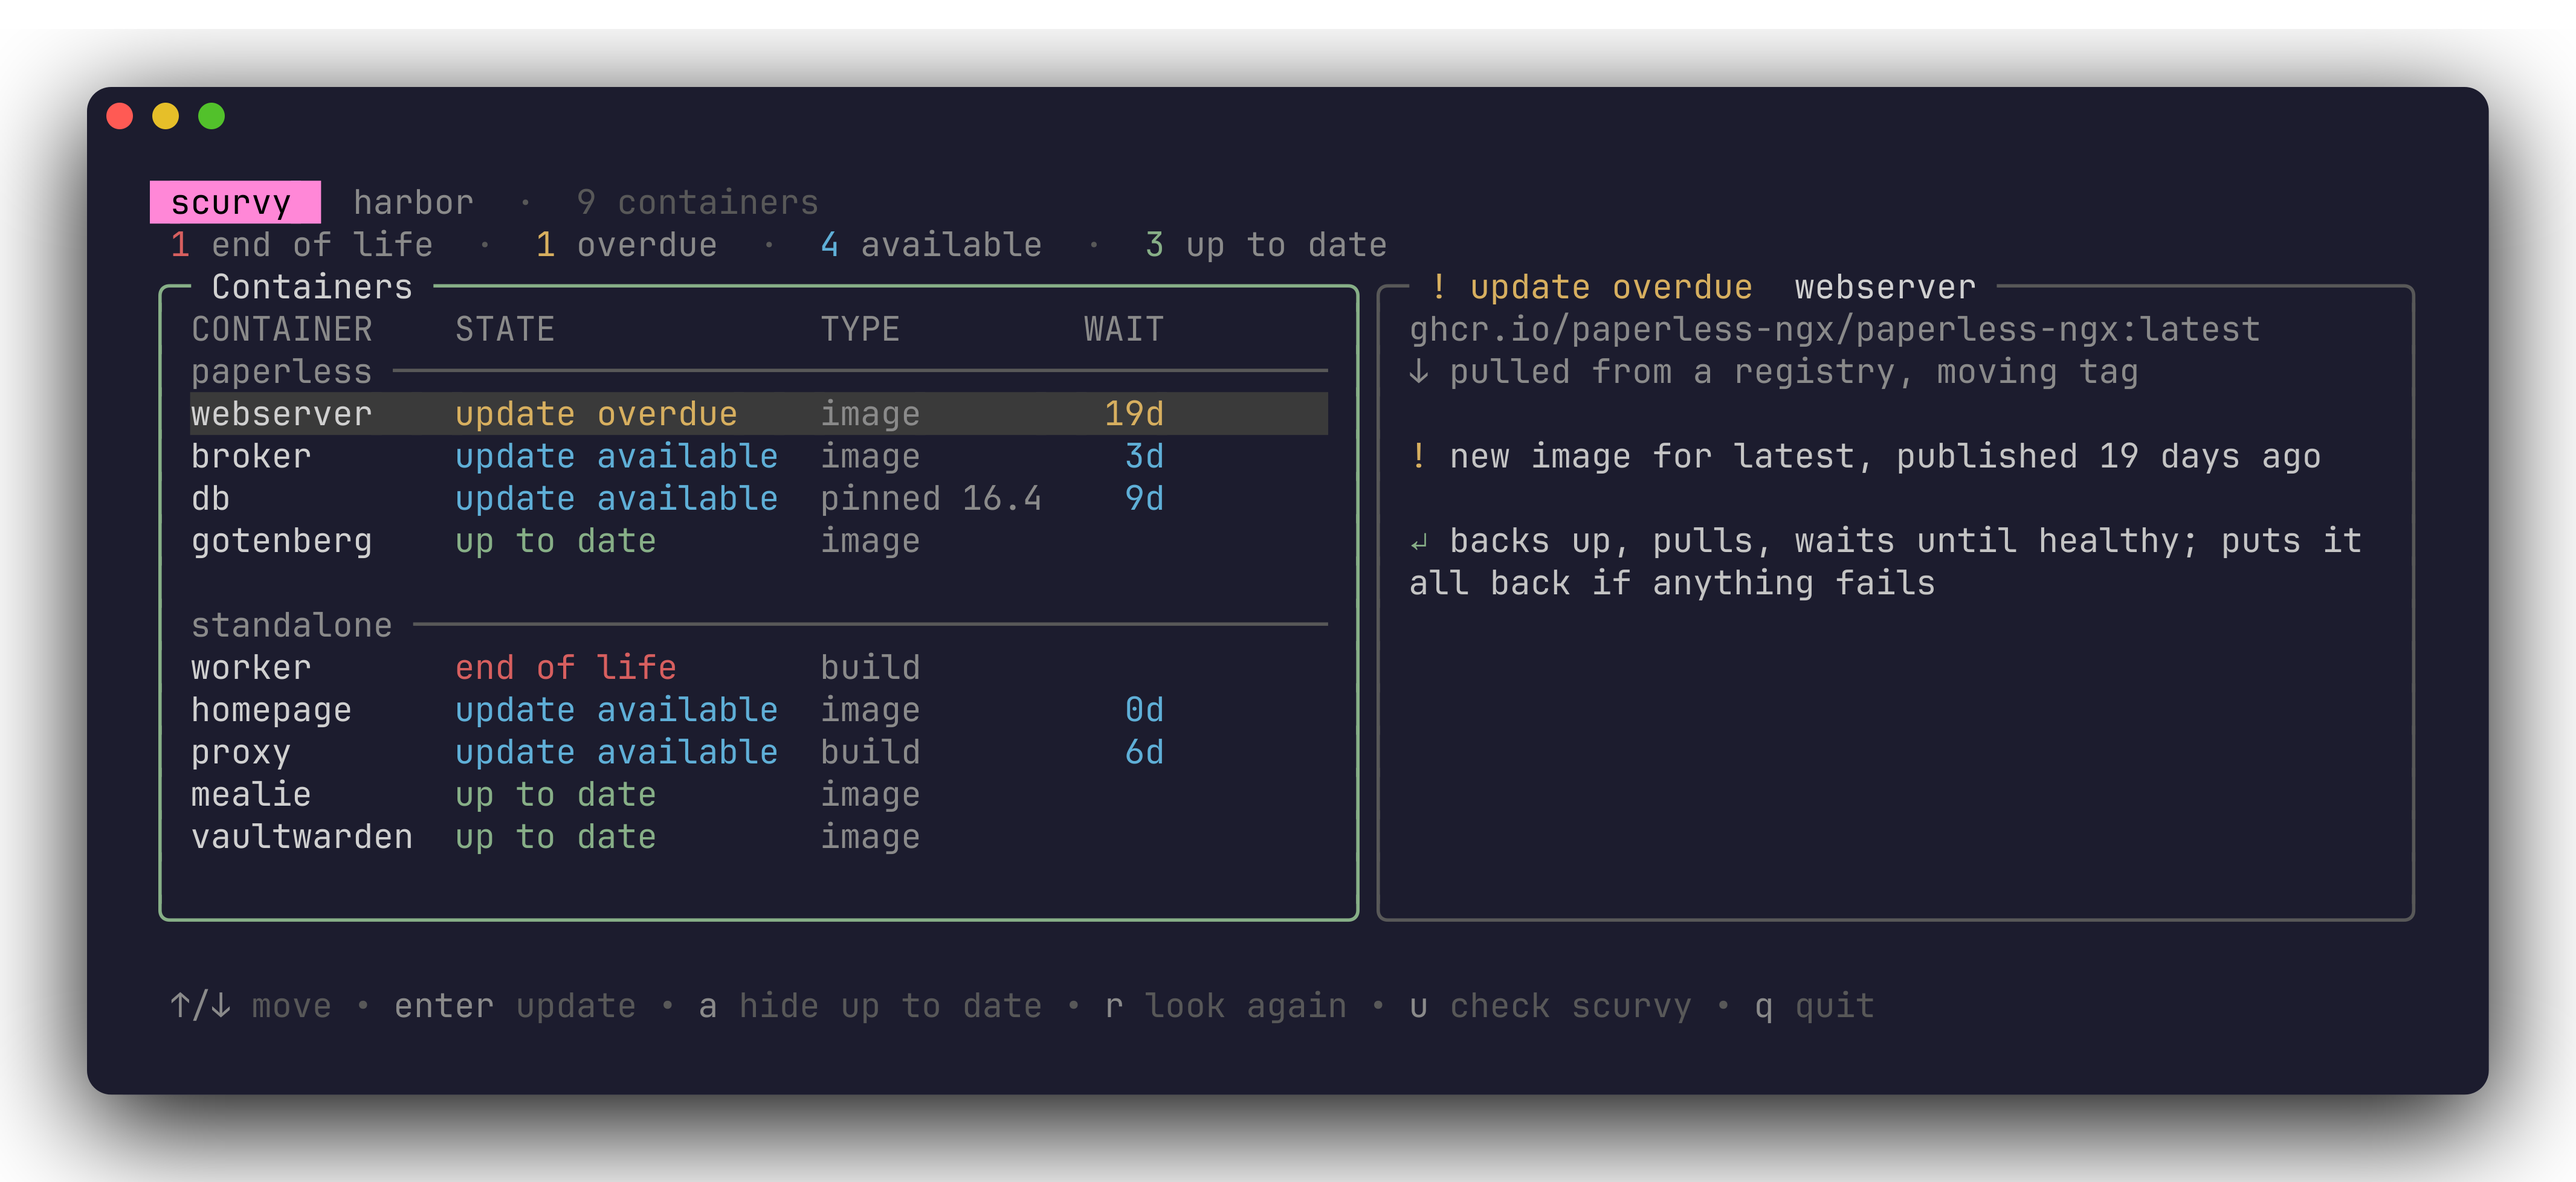
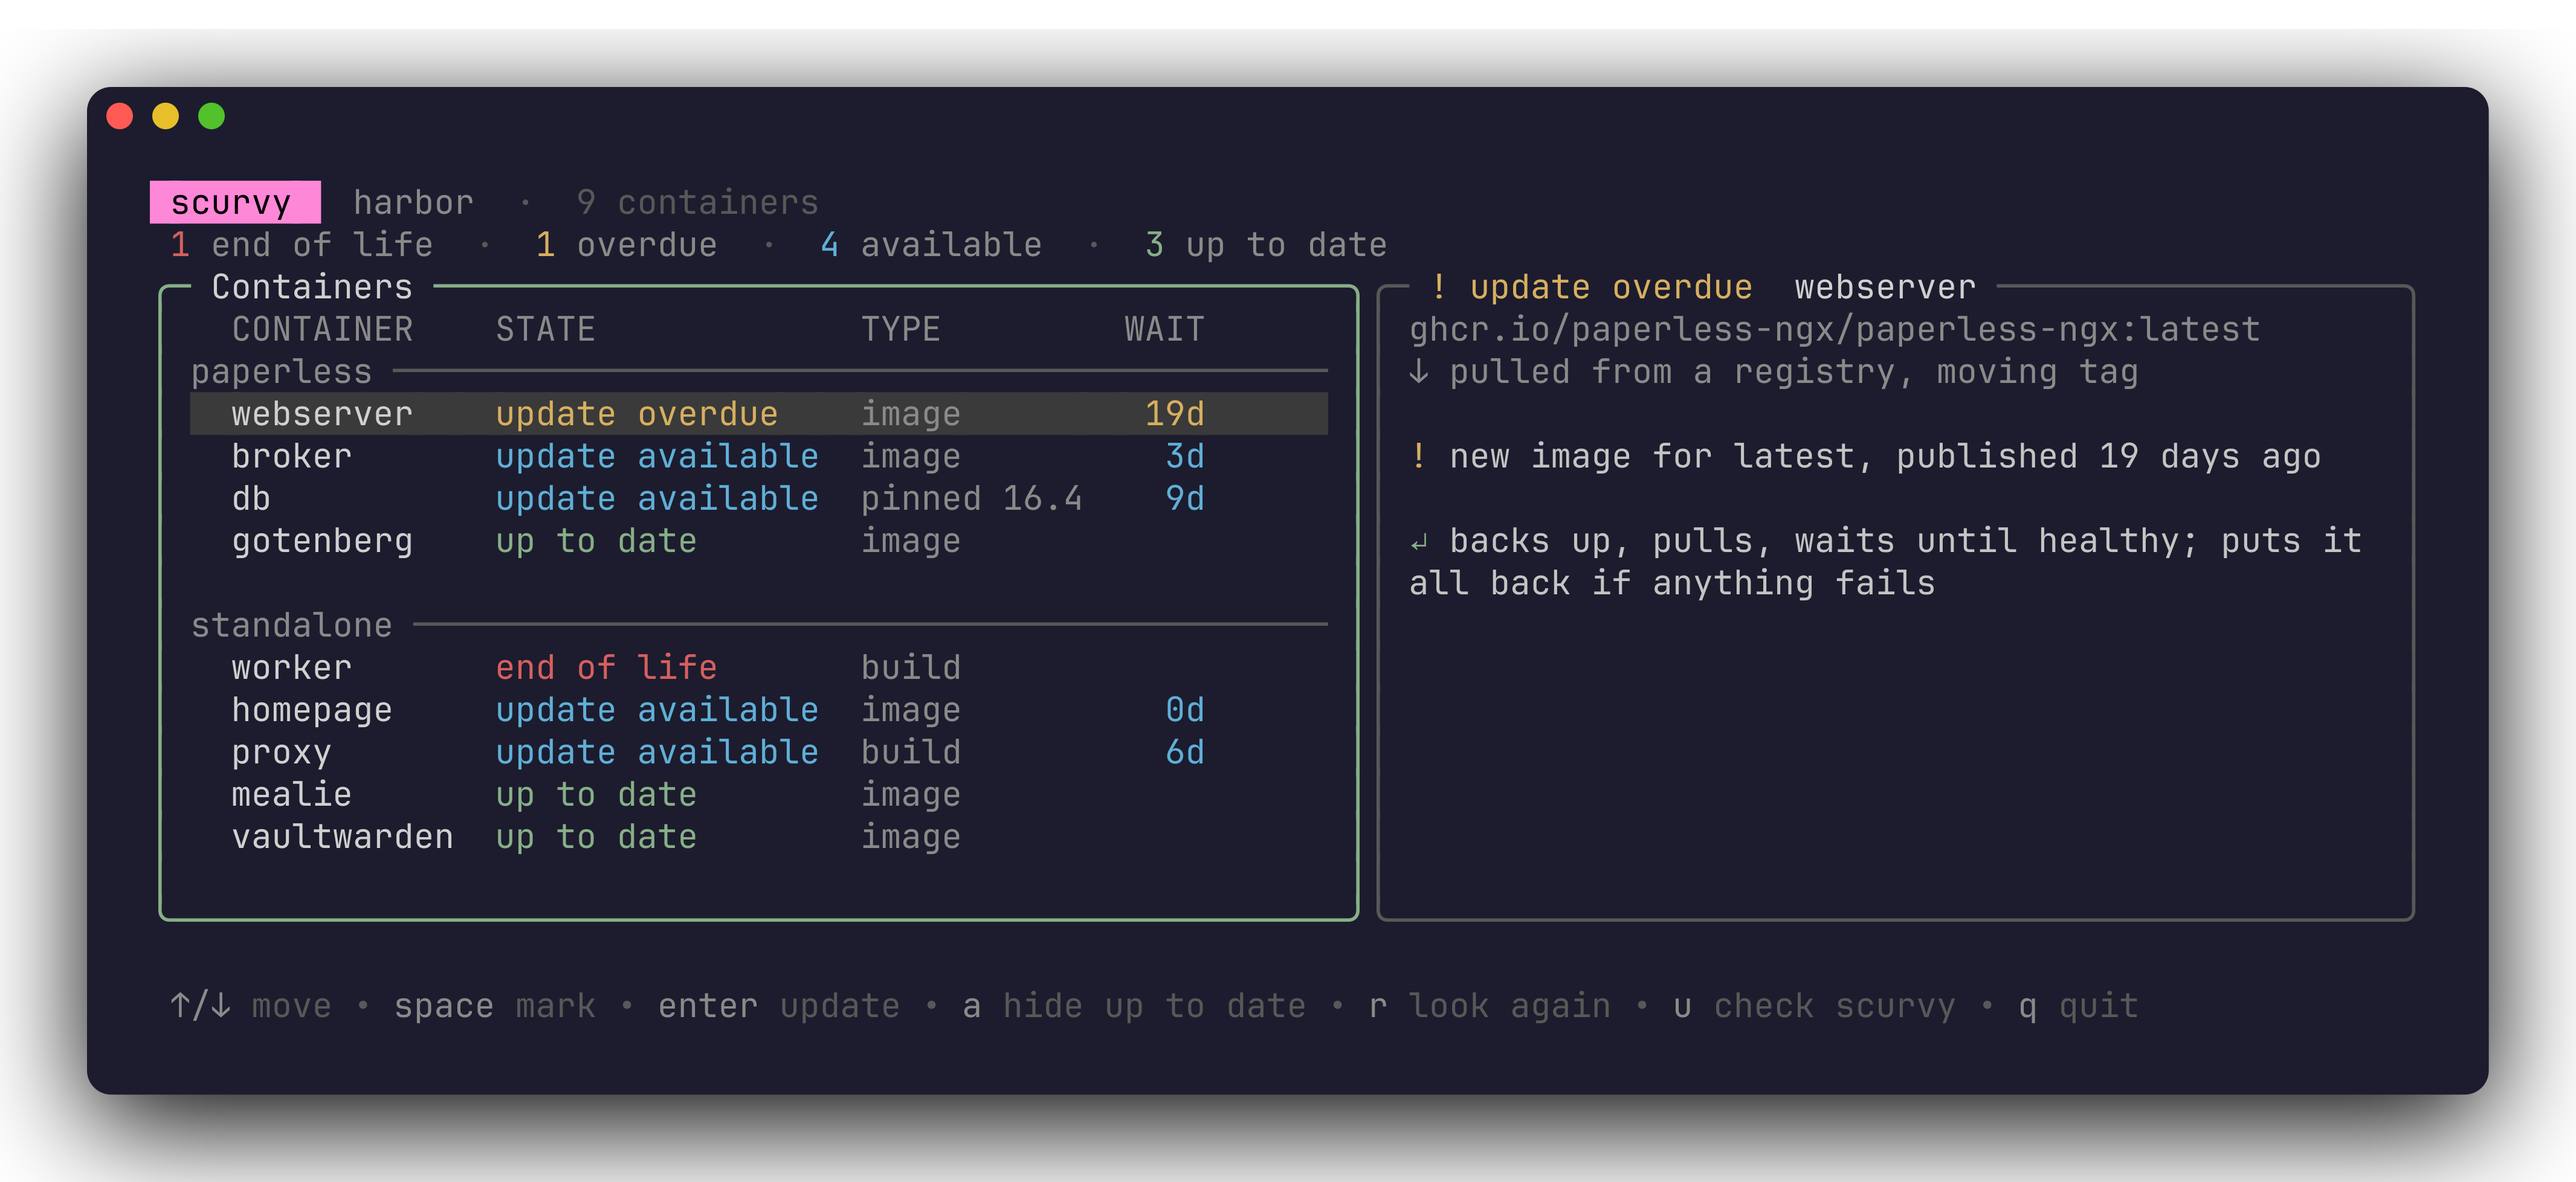
New: space marks several containers to update at once
Space marks a container, or on a group's line all of its containers;
Enter then updates the marked ones, each stack as one plan.

Fixed: two services on one image got the same backup tag, so the second
overwrote the first. The service is now in the tag, and old backups are
pruned per service.

Changed: the README says what scurvy does, then what it checks, shows
and runs, and how to ask the update state from the command line.

diff --git a/internal/tui/tui.go b/internal/tui/tui.go
@@ -35,9 +35,10 @@ type Model struct {
 	dryRun  bool // Enter shows what it would run, and runs nothing
 
 	items    []scan.Item
-	all      bool // show the up-to-date ones too: the start
-	pick     int  // row
-	top      int  // first row shown
+	all      bool            // show the up-to-date ones too: the start
+	marked   map[string]bool // container IDs marked with space
+	pick     int             // row
+	top      int             // first row shown
 	scanning bool
 	done     *atomic.Int64 // scan progress, packed done<<32|total
 	err      error
@@ -226,7 +227,7 @@ func (m *Model) Update(msg tea.Msg) (tea.Model, tea.Cmd) {
 		case msg.err != nil:
 			m.outcome = sErr.Render("✗ " + m.logName + ": " + msg.err.Error())
 		case m.dryRun:
-			m.outcome = sDim.Render("dry run: " + m.logName + " was not changed")
+			m.outcome = sDim.Render("dry run: nothing was changed")
 		default:
 			m.outcome = sOK.Render("✓ " + m.logName + " is shipshape again")
 		}
@@ -271,8 +272,8 @@ func (m *Model) key(k string) tea.Cmd {
 		return nil
 	case m.confirm:
 		m.confirm = false
-		if r, ok := m.picked(); ok && yes {
-			return m.startFix(r)
+		if todo, what := m.todo(); yes && len(todo) > 0 {
+			return m.startFix(todo, what)
 		}
 		return nil
 	}
@@ -316,20 +317,74 @@ func (m *Model) key(k string) tea.Cmd {
 			m.note = sDim.Render("looking for a newer scurvy…")
 			return m.lookForUpdate(true)
 		}
-	case "enter", "space":
-		r, ok := m.picked()
+	case "space":
+		if r, ok := m.picked(); ok && !m.updating {
+			m.toggle(r)
+		}
+	case "enter":
+		todo, _ := m.todo()
 		switch {
-		case !ok || m.scanning:
+		case m.scanning:
 		case m.updating:
 			m.note = sDim.Render("one update at a time")
-		case len(targets(r)) == 0:
-			m.note = sDim.Render(name(r) + ": nothing scurvy can update here")
+		case len(todo) == 0:
+			m.note = sDim.Render("nothing scurvy can update here")
 		default:
 			m.note = ""
 			m.confirm = true
 		}
 	}
 	return nil
+}
+
+// toggle marks a container, or all of a group's that scurvy can update;
+// again, it unmarks them.
+func (m *Model) toggle(r row) {
+	can := targets(r)
+	if r.head {
+		can = nil
+		for _, it := range r.items {
+			if it.Updatable() {
+				can = append(can, it)
+			}
+		}
+	}
+	if len(can) == 0 {
+		m.note = sDim.Render(name(r) + ": nothing scurvy can update here")
+		return
+	}
+	if m.marked == nil {
+		m.marked = map[string]bool{}
+	}
+	all := true
+	for _, it := range can {
+		all = all && m.marked[it.Container.ID]
+	}
+	for _, it := range can {
+		if all {
+			delete(m.marked, it.Container.ID)
+		} else {
+			m.marked[it.Container.ID] = true
+		}
+	}
+}
+
+// todo is what Enter updates: the marked containers, else the picked row's;
+// and what to call it.
+func (m *Model) todo() ([]scan.Item, string) {
+	if len(m.marked) > 0 {
+		var out []scan.Item
+		for _, it := range m.items {
+			if m.marked[it.Container.ID] {
+				out = append(out, it)
+			}
+		}
+		return out, plural(len(out), "marked container")
+	}
+	if r, ok := m.picked(); ok {
+		return targets(r), name(r)
+	}
+	return nil, ""
 }
 
 // targets are what Enter updates on a row: a container, or the containers
@@ -363,9 +418,10 @@ func name(r row) string {
 
 // startFix runs the update in the background and shows its output on the
 // right, line by line, while the list stays.
-func (m *Model) startFix(r row) tea.Cmd {
-	plans, _ := fix.Plans(targets(r))
-	m.updating, m.logName, m.log, m.outcome = true, name(r), nil, ""
+func (m *Model) startFix(todo []scan.Item, what string) tea.Cmd {
+	plans, _ := fix.Plans(todo)
+	m.updating, m.logName, m.log, m.outcome = true, what, nil, ""
+	m.marked = nil
 	m.lines, m.result = make(chan string, 256), make(chan error, 1)
 	lines, result, ctx := m.lines, m.result, m.ctx
 	go func() {

diff --git a/internal/tui/view.go b/internal/tui/view.go
@@ -263,13 +263,13 @@ func (m *Model) columns(rows []row, inner int) cols {
 			c.kind = max(c.kind, min(lipgloss.Width(kindWord(r.items[0])), 18))
 		}
 	}
-	c.name = min(c.name, max(8, inner-c.state-c.kind-waitW-6))
+	c.name = min(c.name, max(8, inner-2-c.state-c.kind-waitW-6))
 	return c
 }
 
 // header names the columns, as k9s and docker ps do.
 func (c cols) header(inner int) string {
-	h := fit("CONTAINER", c.name) + "  " + fit("STATE", c.state) + "  " + fit("TYPE", c.kind) + "  " + fmt.Sprintf("%*s", waitW, "WAIT")
+	h := "  " + fit("CONTAINER", c.name) + "  " + fit("STATE", c.state) + "  " + fit("TYPE", c.kind) + "  " + fmt.Sprintf("%*s", waitW, "WAIT")
 	return lipgloss.NewStyle().Foreground(cDim).Bold(true).Render(fit(h, inner))
 }
 
@@ -314,7 +314,11 @@ func (m *Model) line(r row, picked bool, c cols, inner int) string {
 		waiting = fmt.Sprintf("%dd", int(time.Since(f.Since).Hours()/24))
 	}
 	gap := on(lipgloss.NewStyle()).Render("  ")
-	line := cellOn(on(sText).Render(short(it, r.group)), c.name, on) + gap +
+	mark := on(lipgloss.NewStyle()).Render("  ")
+	if m.marked[it.Container.ID] {
+		mark = on(lipgloss.NewStyle().Foreground(cActive).Bold(true)).Render("● ")
+	}
+	line := mark + cellOn(on(sText).Render(short(it, r.group)), c.name, on) + gap +
 		cellOn(on(st.style()).Render(st.word), c.state, on) + gap +
 		cellOn(on(sDim).Render(kindWord(it)), c.kind, on) + gap +
 		on(st.style()).Render(fmt.Sprintf("%*s", waitW, waiting))
@@ -531,13 +535,13 @@ func (m *Model) status(w int) string {
 			s += sFaint.Render("   " + strings.Join(m.newer.Points, " · "))
 		}
 	case m.confirm:
-		if r, ok := m.picked(); ok {
-			s = q(confirmText(r, m.dryRun))
-		}
+		s = q(m.confirmText())
 	case m.scanning && len(m.items) > 0:
 		s = " " + sDim.Render("looking again…")
 	case m.note != "":
 		s = " " + m.note
+	case len(m.marked) > 0:
+		s = " " + sBold.Render(plural(len(m.marked), "container")+" marked") + sDim.Render(" · enter updates them · space unmarks")
 	}
 	return ansi.Truncate(s, w, "…")
 }
@@ -554,6 +558,7 @@ func (m *Model) help(w int) string {
 	}
 	parts := []string{
 		k.Render("↑/↓") + " " + sFaint.Render("move"),
+		k.Render("space") + " " + sFaint.Render("mark"),
 		k.Render("enter") + " " + sFaint.Render("update"),
 		k.Render("a") + " " + sFaint.Render(all),
 		k.Render("r") + " " + sFaint.Render("look again"),
@@ -563,13 +568,13 @@ func (m *Model) help(w int) string {
 	return ansi.Truncate(" "+strings.Join(parts, sFaint.Render(" • ")), w, "…")
 }
 
-func confirmText(r row, dry bool) string {
-	todo := targets(r)
-	s := fmt.Sprintf("Update %s?", todo[0].Name())
-	if r.head || len(todo) > 1 {
-		s = fmt.Sprintf("Update %s of %s?", plural(len(todo), "container"), name(r))
+func (m *Model) confirmText() string {
+	todo, what := m.todo()
+	s := fmt.Sprintf("Update %s?", what)
+	if len(todo) > 1 && len(m.marked) == 0 {
+		s = fmt.Sprintf("Update %s of %s?", plural(len(todo), "container"), what)
 	}
-	if dry {
+	if m.dryRun {
 		s += " (dry run: only shown)"
 	}
 	return s

diff --git a/internal/fix/fix.go b/internal/fix/fix.go
@@ -128,7 +128,7 @@ func (p Plan) services(kind scan.Kind) []string {
 func (p Plan) Name() string { return p.Project.Name }
 
 // backup is a running image kept under a tag, and the reference it ran as.
-type backup struct{ tag, ref string }
+type backup struct{ tag, ref, service string }
 
 // Run carries out the plan. On failure it has put everything back, and
 // says so; the error tells what failed.
@@ -150,7 +150,8 @@ func Run(ctx context.Context, p Plan, out io.Writer) error {
 	var backups []backup
 	for _, it := range p.Items {
 		ref := registry.Parse(it.Running)
-		b := backup{tag: ref.Name + ":bak-" + stamp, ref: ref.Name + ":" + ref.Tag}
+		// The service is in the tag: two services on one image keep two backups.
+		b := backup{tag: ref.Name + ":bak-" + stamp + "-" + tagSafe(it.Service), ref: ref.Name + ":" + ref.Tag, service: tagSafe(it.Service)}
 		if err := r.run("", "docker", "tag", it.Container.ImageID, b.tag); err != nil {
 			return err
 		}
@@ -217,7 +218,7 @@ func Run(ctx context.Context, p Plan, out io.Writer) error {
 
 	// Tidy up. A failure here is told; the update stands.
 	for _, b := range backups {
-		r.prune(registry.Parse(b.tag).Name)
+		r.prune(registry.Parse(b.tag).Name, b.service)
 	}
 	r.warn(r.run("", "docker", "image", "prune", "-f"))
 	if len(p.services(scan.Built)) > 0 {
@@ -272,15 +273,15 @@ func (r *runner) gitPull(dir string) (string, error) {
 	return strings.TrimSpace(string(head)), r.run(dir, "git", "pull", "--ff-only")
 }
 
-// prune removes all but the newest backup tags of an image.
-func (r *runner) prune(name string) {
+// prune removes all but the newest backup tags of a service's image.
+func (r *runner) prune(name, service string) {
 	out, err := exec.CommandContext(r.ctx, "docker", "images", name, "--format", "{{.Tag}}").Output()
 	if err != nil {
 		return
 	}
 	var baks []string
 	for _, t := range strings.Fields(string(out)) {
-		if strings.HasPrefix(t, "bak-") {
+		if strings.HasPrefix(t, "bak-") && strings.HasSuffix(t, "-"+service) {
 			baks = append(baks, t)
 		}
 	}
@@ -370,6 +371,14 @@ func (r *runner) run(dir, name string, args ...string) error {
 		return fmt.Errorf("%s failed: %w", shell(append([]string{name}, args[:min(2, len(args))]...)...), err)
 	}
 	return nil
+}
+
+var notInTag = regexp.MustCompile(`[^A-Za-z0-9_.-]`)
+
+// tagSafe makes s fit into an image tag.
+func tagSafe(s string) string {
+	s = notInTag.ReplaceAllString(s, "-")
+	return s[:min(len(s), 60)]
 }
 
 var plainArg = regexp.MustCompile(`^[A-Za-z0-9_./:@=+,-]+$`)

diff --git a/internal/fix/fix_test.go b/internal/fix/fix_test.go
@@ -105,3 +105,9 @@ func TestQuote(t *testing.T) {
 		}
 	}
 }
+
+func TestTagSafe(t *testing.T) {
+	if got := tagSafe("my service/1"); got != "my-service-1" {
+		t.Errorf("got %q", got)
+	}
+}

diff --git a/README.md b/README.md
@@ -1,6 +1,6 @@
 # 🍋 scurvy
 
-See which docker containers on a server are out of date, and update them with Enter.
+scurvy shows which docker containers on a server are out of date, and updates them safely with Enter: it keeps a backup, waits until the containers are healthy, and puts everything back if anything fails. One program, no config, no daemon.
 
 <img src="docs/screen.png" alt="scurvy: containers by stack on the left, details on the right" width="860">
 
@@ -8,14 +8,16 @@ See which docker containers on a server are out of date, and update them with En
 
 ```sh
 curl -fsSL https://github.com/chriopter/scurvy/releases/latest/download/install.sh | sudo bash
-scurvy        # -n: show every step of an update, run none
+scurvy
 ```
 
-## How it works
+## What it checks
 
-scurvy finds the running containers and reads their compose files and Dockerfiles. It asks the registries what each tag points to now, and [endoflife.date](https://endoflife.date) whether the base still gets fixes; nothing is pulled to check.
+scurvy finds the running containers and reads their compose files and Dockerfiles. For each it asks the registry what its tag points to now, looks for newer versions of a fixed one, and asks [endoflife.date](https://endoflife.date) whether its base still gets fixes. Nothing is pulled to check.
 
-| status | means |
+## What it shows
+
+| state | means |
 |---|---|
 | 🟢 up to date | nothing newer |
 | 🔵 update available | a new image or version is there |
@@ -23,7 +25,11 @@ scurvy finds the running containers and reads their compose files and Dockerfile
 | 🔴 end of life | the base (alpine, debian, python, node, …) gets no fixes any more |
 | ⚪ not checked | the registry did not answer, or the image is private |
 
-Enter keeps the running image as a backup, updates, and waits until the containers are healthy. If anything fails, it puts everything back.
+Containers of one compose stack stand together. The right panel tells everything about the picked one.
+
+## What Enter does
+
+<kbd>Enter</kbd> updates the picked container or stack; <kbd>space</kbd> marks several to update at once.
 
 | type | image comes from | Enter |
 |---|---|---|
@@ -34,9 +40,16 @@ Enter keeps the running image as a backup, updates, and waits until the containe
 | pinned digest | a registry, fixed digest (`@sha256:…`) | nothing |
 | external | another tool, or `docker run` | nothing |
 
-A stack with its own `docker-update.sh` gets that script run instead.
+A stack with its own `docker-update.sh` gets that script run instead. Before every update the running image is kept as `<image>:bak-<time>`; after it, scurvy waits until the containers are healthy. [Details](docs/how.md)
 
-[Details](docs/how.md)
+## Command line
+
+```sh
+scurvy -n          # the screen, but Enter only shows what it would run
+scurvy list        # the update state of every container, as text: for scripts and checks
+scurvy fix web     # update one container, or a stack, without the screen
+scurvy update      # update scurvy itself
+```
 
 ## Development
 
